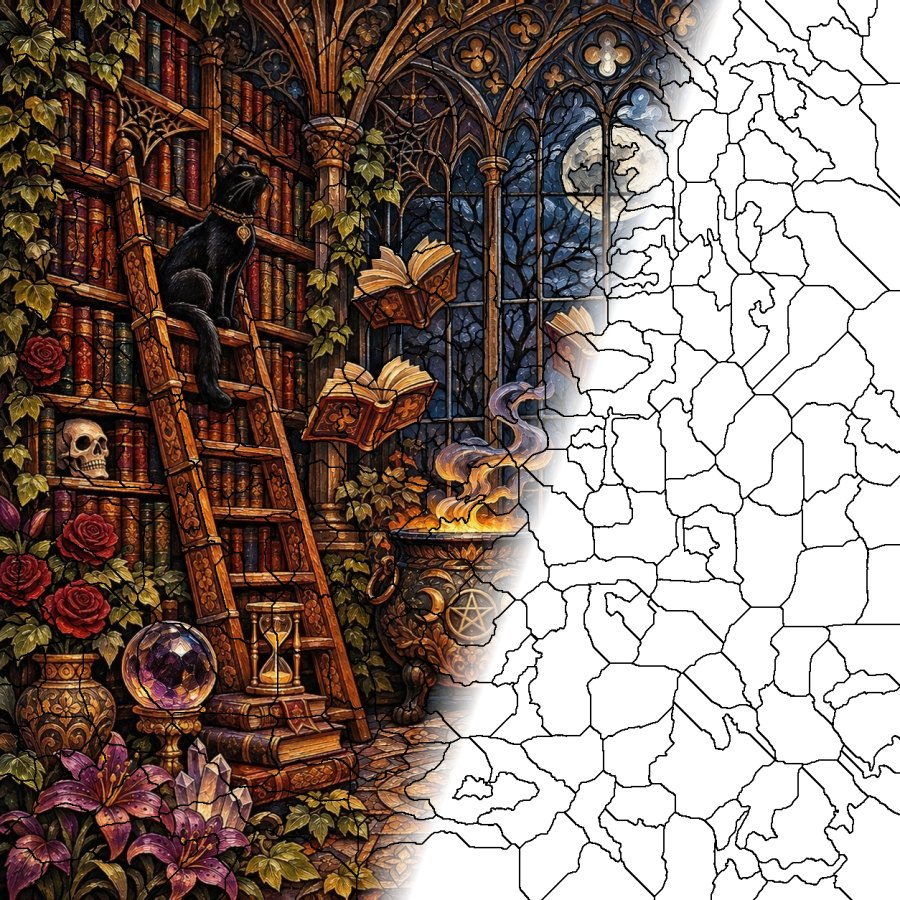
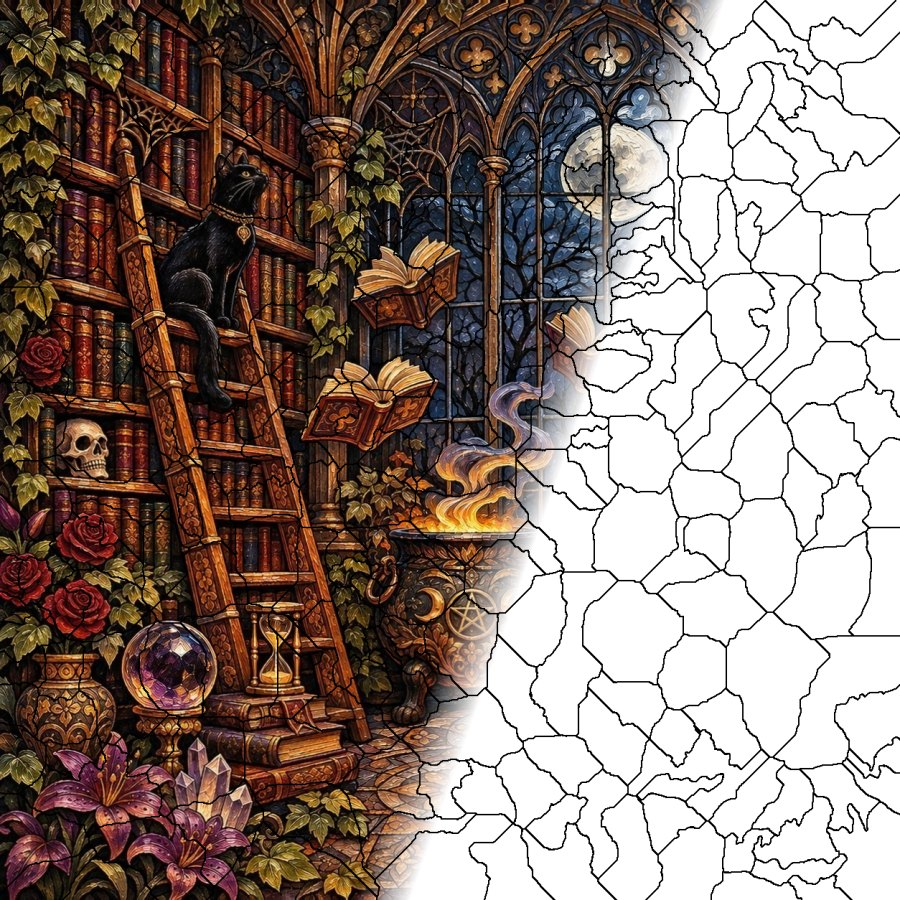
Blend pages: a tap fills the spot with its number's colour, shaded like the painting
Everything a number paints is now that number's colour; the painting only supplies light and
dark. Hue counts double when numbers are chosen, and the palette is a little larger, so
differently coloured things get their own numbers. Haunted Library rebuilt: 621 spots, 24 colours.

Claude-Session: https://claude.ai/code/session_01X4jKmC36k778ncv5ZPyc4q

diff --git a/public/index.html b/public/index.html
@@ -357,6 +357,9 @@ function paintRegion(id,val,commit=true){
   const rgb=(typeof val==='string'&&val[0]==='#')?hexToRgb(val):P.meta.palette[P.meta.regions[id-1].c];
   if(val==='r'&&P.shadeD&&P.meta.reveal){const S=P.shadeD; // coloring-book pages: the right color brings the painting's own shades into the piece
     for(let k=off[id];k<off[id+1];k++){const j=idx[k]*4;d[j]=S[j];d[j+1]=S[j+1];d[j+2]=S[j+2];d[j+3]=255}}
+  else if(val==='r'&&P.shadeD&&P.meta.tone){const S=P.shadeD,m=P.meanC,o=id*3,ml=Math.max(8,.299*m[o]+.587*m[o+1]+.114*m[o+2]); // blend pages: the whole spot is its number's color, lighter and darker exactly where the painting is (no other hue comes in)
+    for(let k=off[id];k<off[id+1];k++){const j=idx[k]*4,g=Math.min(1.9,Math.max(.3,(.299*S[j]+.587*S[j+1]+.114*S[j+2])/ml)),u=g>1?(g-1)*.38:0;
+      d[j]=rgb[0]*Math.min(g,1)*(1-u)+255*u;d[j+1]=rgb[1]*Math.min(g,1)*(1-u)+255*u;d[j+2]=rgb[2]*Math.min(g,1)*(1-u)+255*u;d[j+3]=255}}
   else if(val==='r'&&P.shadeD){const S=P.shadeD,m=P.meanC,o=id*3,t=P.sh;
     for(let k=off[id];k<off[id+1];k++){const j=idx[k]*4;d[j]=rgb[0]+t*(S[j]-m[o]);d[j+1]=rgb[1]+t*(S[j+1]-m[o+1]);d[j+2]=rgb[2]+t*(S[j+2]-m[o+2]);d[j+3]=255}}
   else for(let k=off[id];k<off[id+1];k++){const j=idx[k]*4;d[j]=rgb[0];d[j+1]=rgb[1];d[j+2]=rgb[2];d[j+3]=255}

diff --git a/tools/blend_page.py b/tools/blend_page.py
@@ -6,8 +6,8 @@
 The page still shows the artist's black-and-white drawing, but the spots you colour are not the drawn
 shapes: they are the patches of one colour in the painting (a shadow under a shelf, the lit side of a wall,
 a crease in a sleeve). Spots have no outlines of their own. Choosing a number shades its spots; a tap fills
-one with the painting. So every spot is one colour, its number is that colour, and the finished page is the
-painting exactly.
+one with its number's colour, lighter and darker exactly where the painting is. So every spot is one colour
+and everything a number paints is that number's colour.
 
 Paints the drawing's lines out of color.jpg, flattens it lightly, and hands that to flat_page.py for the
 spots (the painting stays as what a tap reveals). Then puts the drawing back (ink.png, ink.json, line.png)
@@ -16,10 +16,10 @@ and marks the page "blend": 1 so the app draws the drawing only. Spots change, s
 import sys, os, json, argparse, subprocess, tempfile, shutil
 import numpy as np, cv2
 R = os.path.dirname(os.path.dirname(os.path.abspath(__file__)))
-ap = argparse.ArgumentParser(); ap.add_argument('slugs', nargs='+'); ap.add_argument('--colors', type=int, default=22); ap.add_argument('--min', type=float, default=220)
+ap = argparse.ArgumentParser(); ap.add_argument('slugs', nargs='+'); ap.add_argument('--colors', type=int, default=26); ap.add_argument('--min', type=float, default=220)
 ap.add_argument('--split', type=float, default=260, help='a patch of a clearly different colour inside a spot becomes its own spot when at least this big (px on a 1254px page)')
 ap.add_argument('--near', type=float, default=11, help='two palette colours closer than this are one number')
-W3 = np.array([.7, 1, 1], np.float32)   # hue counts a little more than light and dark
+W3 = np.array([.5, 1, 1], np.float32)   # hue counts twice as much as light and dark: a green leaf and a brown shelf never share a number
 
 def purify(d, clean, split, near):
     """Every spot one colour, every number the colour of its spots, no two numbers that look alike."""
@@ -80,7 +80,7 @@ for slug in a.slugs:
     for f in (slug + '-flat.png', slug + '-color.jpg', slug + '-color.png'):                          # flat_page's source copies are not sources here
         p = os.path.join(R, 'pages', 'src', f)
         if os.path.exists(p) and f.endswith('-flat.png'): os.remove(p)
-    rp = os.path.join(d, 'regions.json'); m = json.load(open(rp)); m['blend'] = 1; m['ink'] = 2; m['inkv'] = 1 if 'ink.json' in keep else 0; m.pop('flat', None)
+    rp = os.path.join(d, 'regions.json'); m = json.load(open(rp)); m['blend'] = 1; m['tone'] = 1; m['reveal'] = 0; m['shade'] = 1.0; m['ink'] = 2; m['inkv'] = 1 if 'ink.json' in keep else 0; m.pop('flat', None)
     json.dump(m, open(rp, 'w'), separators=(',', ':'))
     P = json.load(open(pj, encoding='utf-8'))
     for x in P:
